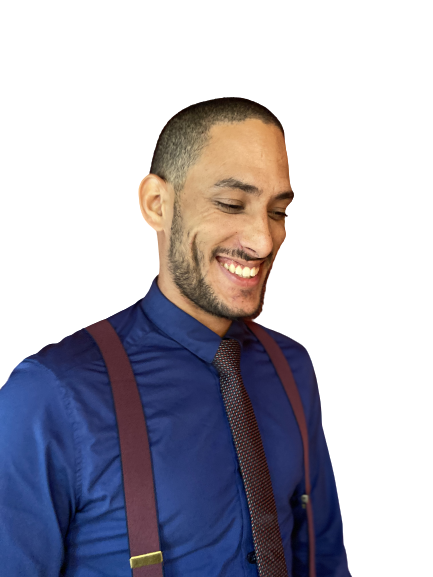
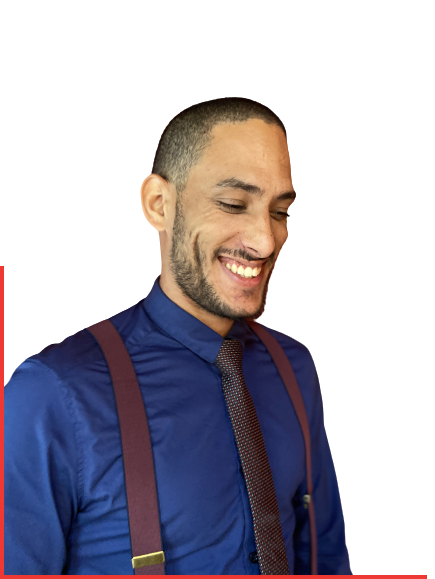
tv static + type writter

diff --git a/src/App.css b/src/App.css
@@ -104,7 +104,6 @@ body {
 }
 
 .container {
-  border: 5px solid green;
   -webkit-box-flex: 1;
       -ms-flex-positive: 1;
           flex-grow: 1;
@@ -140,7 +139,6 @@ body {
 }
 
 .container .row {
-  border: 2px solid black;
   display: -webkit-box;
   display: -ms-flexbox;
   display: flex;
@@ -362,50 +360,6 @@ header .container .row .menu:hover {
   }
 }
 
-.profileBox {
-  border: 6px solid #ed3833;
-  -ms-flex-item-align: end;
-      align-self: flex-end;
-  position: relative;
-  width: 300px;
-  height: 200px;
-  margin: 40px;
-  background: transparent;
-}
-
-.profileBox .profileCircle {
-  position: absolute;
-  top: 50%;
-  left: 50%;
-  width: 200px;
-  height: 200px;
-  border-radius: 50%;
-  -webkit-transition: 0.5s;
-  transition: 0.5s;
-  background: #000;
-  -webkit-transform-style: preserve-3d;
-          transform-style: preserve-3d;
-  z-index: 10;
-  opacity: 1;
-  -webkit-transform: translate3d(-50%, -50%, 50px);
-          transform: translate3d(-50%, -50%, 50px);
-}
-
-.profileBox .profilePicture {
-  position: absolute;
-  top: -5%;
-  left: 52%;
-  max-width: 300px;
-  -webkit-transition: 0.5s;
-  transition: 0.5s;
-  z-index: 11;
-  -webkit-transform-style: preserve-3d;
-          transform-style: preserve-3d;
-  -webkit-transform: translate3d(-50%, -50%, 0px);
-          transform: translate3d(-50%, -50%, 0px);
-  border-bottom-right-radius: 20px;
-}
-
 main .container {
   position: relative;
   border: black;
@@ -414,7 +368,7 @@ main .container {
 main .container .backgr:before {
   -webkit-animation: grain 8s steps(10) infinite;
           animation: grain 8s steps(10) infinite;
-  background-image: url("https://images.unsplash.com/photo-1433740944490-b669cb8b1c44?ixid=MnwxMjA3fDB8MHxwaG90by1wYWdlfHx8fGVufDB8fHx8&ixlib=rb-1.2.1&auto=format&fit=crop&w=1176&q=80");
+  background-image: url("https://images.unsplash.com/photo-1568274179323-00ae07c3e653?ixid=MnwxMjA3fDB8MHxwaG90by1wYWdlfHx8fGVufDB8fHx8&ixlib=rb-1.2.1&auto=format&fit=crop&w=687&q=80");
   content: "";
   height: 300%;
   left: -50%;
@@ -501,10 +455,6 @@ main .container .row .image-container .information .devWeb span:nth-child(2) {
           justify-content: space-between;
 }
 
-.single .container .top-row .top .details .devWeb span:nth-child(2) {
-  margin-left: 16px;
-}
-
 .single .container .top-row .top .aboutMe {
   overflow: hidden;
 }
@@ -571,7 +521,7 @@ main .container .row .image-container .information .devWeb span:nth-child(2) {
 }
 
 .detailed-information {
-  margin-top: 200px;
+  margin-top: 300px;
   height: 600px;
 }
 
@@ -595,5 +545,21 @@ main .container .row .image-container .information .devWeb span:nth-child(2) {
   line-height: 28px;
   font-weight: 400;
   width: 800px;
+}
+
+.profileBox {
+  position: relative;
+  height: 100%;
+  width: 50%;
+}
+
+.profileBox .profilePicture {
+  position: absolute;
+  top: -25vh;
+  width: 90%;
+  height: auto;
+  -webkit-transition: 0.5s;
+  transition: 0.5s;
+  z-index: 11;
 }
 /*# sourceMappingURL=App.css.map */

diff --git a/src/pages/aboutMe/aboutMe.js b/src/pages/aboutMe/aboutMe.js
@@ -90,7 +90,19 @@ const AboutMe = ({ imageDetails }) => {
               }}
               className="details"
             >
-              <div className="devWeb">Développeur Web</div>
+              <TypeWriterEffect
+                textStyle={{
+                  fontFamily: "HelveticaNeue-CondensedBold",
+                  color: "#1e1f13",
+                  fontWeight: 500,
+                  fontSize: "1.5em",
+                }}
+                startDelay={3500}
+                className="devWeb"
+                text="Développeur Web"
+                typeSpeed={60}
+                hideCursorAfterText="true"
+              />
             </motion.div>
             <motion.div style={{ opacity: opacity }} className="aboutMe">
               <motion.span variants={firstName} className="first">
@@ -160,7 +172,6 @@ const AboutMe = ({ imageDetails }) => {
         <div className="container">
           <div className="row">
             <div className="profileBox">
-              <div className="ProfileCircle"></div>
               <img
                 src={require("../../images/profile.png")}
                 alt="profile"
@@ -172,9 +183,10 @@ const AboutMe = ({ imageDetails }) => {
               his way to FULLSTACK.
               <br />
               <br />
-              I love to work with :
+              I love to work with HTML, CSS, SASS, JAVASCRIPT, REACT, NODE JS,
+              MONGO DB...
               <br />
-              <TypeWriterEffect
+              {/* <TypeWriterEffect
                 className="typewriter"
                 textStyle={{
                   fontFamily: "Helvetica Neue",
@@ -194,7 +206,7 @@ const AboutMe = ({ imageDetails }) => {
                 multiTextDelay={500}
                 typeSpeed={30}
                 hideCursorAfterText={true}
-              />
+              /> */}
               <BouncingBalls />
               <br />
               It has not always been as such though... <br />

diff --git a/src/components/header/_header.scss b/src/components/header/_header.scss
@@ -150,38 +150,3 @@ header {
     background-position: 2.5% 0%;
   }
 }
-
-.profileBox {
-  border: 6px solid #ed3833;
-  align-self: flex-end;
-  position: relative;
-  width: 300px;
-  height: 200px;
-  margin: 40px;
-  background: transparent;
-  .profileCircle {
-    position: absolute;
-    top: 50%;
-    left: 50%;
-    width: 200px;
-    height: 200px;
-    border-radius: 50%;
-    transition: 0.5s;
-    background: #000;
-    transform-style: preserve-3d;
-    z-index: 10;
-    opacity: 1;
-    transform: translate3d(-50%, -50%, 50px);
-  }
-  .profilePicture {
-    position: absolute;
-    top: -5%;
-    left: 52%;
-    max-width: 300px;
-    transition: 0.5s;
-    z-index: 11;
-    transform-style: preserve-3d;
-    transform: translate3d(-50%, -50%, 0px);
-    border-bottom-right-radius: 20px;
-  }
-}

diff --git a/src/pages/aboutMe/_aboutMe.scss b/src/pages/aboutMe/_aboutMe.scss
@@ -10,11 +10,6 @@
           display: flex;
           align-items: center;
           justify-content: space-between;
-          .devWeb {
-            span:nth-child(2) {
-              margin-left: 16px;
-            }
-          }
         }
         .aboutMe {
           overflow: hidden;
@@ -78,7 +73,7 @@
 }
 
 .detailed-information {
-  margin-top: 200px;
+  margin-top: 300px;
   height: 600px;
   .container {
     .row {
@@ -96,5 +91,19 @@
         width: 800px;
       }
     }
+  }
+}
+.profileBox {
+  position: relative;
+  height: 100%;
+  width: 50%;
+  .profilePicture {
+    // border: 2px solid black;
+    position: absolute;
+    top: -25vh;
+    width: 90%;
+    height: auto;
+    transition: 0.5s;
+    z-index: 11;
   }
 }

diff --git a/src/pages/home/_home.scss b/src/pages/home/_home.scss
@@ -5,7 +5,7 @@ main {
     .backgr {
       &:before {
         animation: grain 8s steps(10) infinite;
-        background-image: url("https://images.unsplash.com/photo-1433740944490-b669cb8b1c44?ixid=MnwxMjA3fDB8MHxwaG90by1wYWdlfHx8fGVufDB8fHx8&ixlib=rb-1.2.1&auto=format&fit=crop&w=1176&q=80");
+        background-image: url("https://images.unsplash.com/photo-1568274179323-00ae07c3e653?ixid=MnwxMjA3fDB8MHxwaG90by1wYWdlfHx8fGVufDB8fHx8&ixlib=rb-1.2.1&auto=format&fit=crop&w=687&q=80");
         content: "";
         height: 300%;
         left: -50%;

diff --git a/src/scss/_globals.scss b/src/scss/_globals.scss
@@ -59,7 +59,7 @@ body {
 }
 
 .container {
-  border: 5px solid green;
+  // border: 5px solid green;
 
   flex-grow: 1;
   margin: 0 auto;
@@ -82,7 +82,7 @@ body {
     max-width: 1560px;
   }
   .row {
-    border: 2px solid black;
+    // border: 2px solid blue;
     display: flex;
     align-items: center;
     &.space-between {
